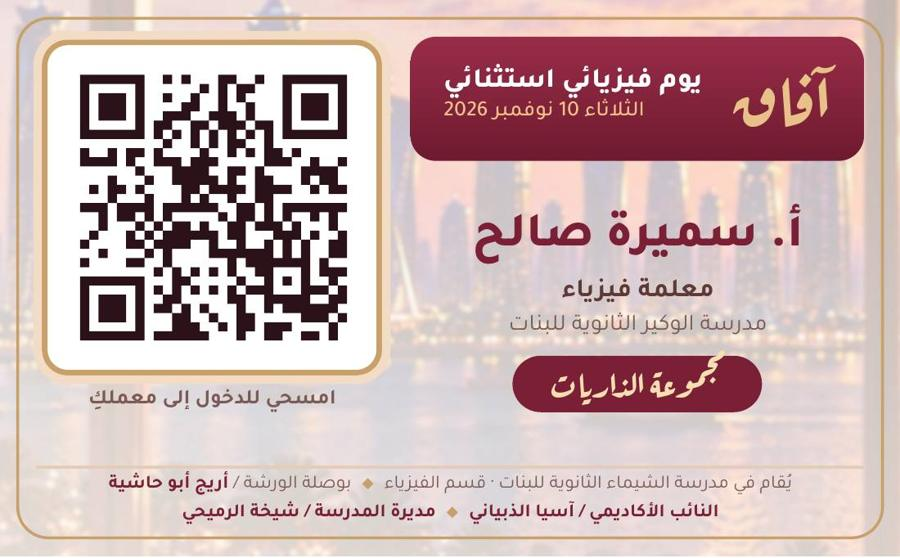
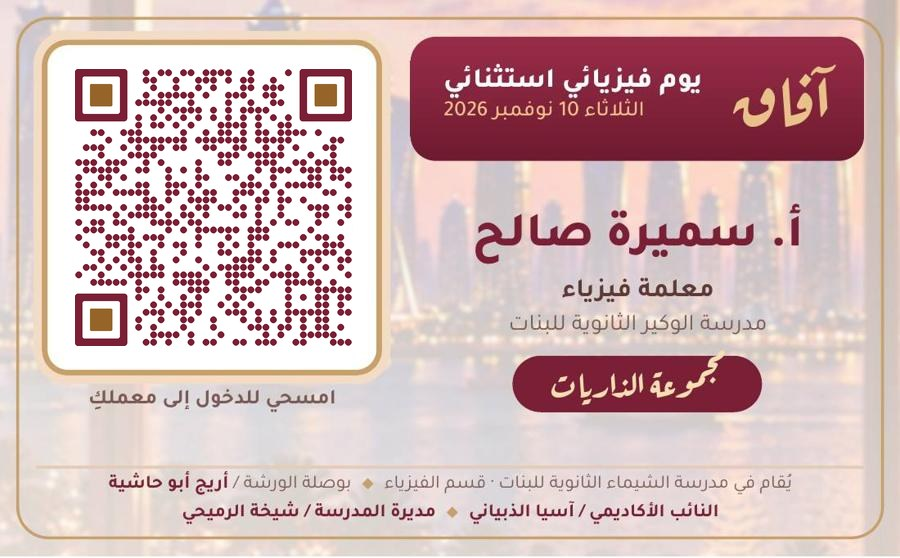
العرض: باركود عرض جديد للمتدربات يفتح آفاق كما في الورشة، وكتيّب المتدربة في عارض المواد
Claude-Session: https://claude.ai/code/session_014ev6NBmoXwgfjgCft7xxt5

Changed region(s): [[0.0622, 0.1219, 0.4044, 0.6398]]

diff --git a/index.html b/index.html
@@ -718,7 +718,7 @@ $('#stage').addEventListener('click',e=>{if(e.target.closest('a,button,input,lab
 
 /* new scenes */
 STEPS[IX('mastery')]=6;STEPS[IX('ohm')]=5;STEPS[IX('reinf')]=3;STEPS[IX('panels')]=4;STEPS[IX('ai')]=2;STEPS[IX('whole')]=4;STEPS[IX('mats')]=0;
-const MV={"m01": {"r": 0.707, "p": ["img/b-01.jpg", "img/b-02.jpg", "img/b-03.jpg", "img/b-04.jpg", "img/b-05.jpg", "img/b-06.jpg", "img/b-07.jpg", "img/b-08.jpg", "img/b-09.jpg", "img/b-10.jpg", "img/b-11.jpg", "img/b-12.jpg", "img/b-13.jpg", "img/b-14.jpg", "img/b-15.jpg", "img/b-16.jpg", "img/b-17.jpg", "img/b-18.jpg", "img/b-19.jpg", "img/b-20.jpg"]}, "m02": {"r": 0.707, "p": ["img/pg/m02-01.jpg", "img/pg/m02-02.jpg", "img/pg/m02-03.jpg", "img/pg/m02-04.jpg", "img/pg/m02-05.jpg", "img/pg/m02-06.jpg", "img/pg/m02-07.jpg", "img/pg/m02-08.jpg", "img/pg/m02-09.jpg", "img/pg/m02-10.jpg", "img/pg/m02-11.jpg", "img/pg/m02-12.jpg", "img/pg/m02-13.jpg", "img/pg/m02-14.jpg", "img/pg/m02-15.jpg", "img/pg/m02-16.jpg", "img/pg/m02-17.jpg", "img/pg/m02-18.jpg", "img/pg/m02-19.jpg", "img/pg/m02-20.jpg"]}, "m03": {"r": 0.707, "p": ["img/pg/m03-01.jpg", "img/pg/m03-02.jpg", "img/pg/m03-03.jpg", "img/pg/m03-04.jpg", "img/pg/m03-05.jpg", "img/pg/m03-06.jpg", "img/pg/m03-07.jpg", "img/pg/m03-08.jpg", "img/pg/m03-09.jpg", "img/pg/m03-10.jpg", "img/pg/m03-11.jpg", "img/pg/m03-12.jpg", "img/pg/m03-13.jpg", "img/pg/m03-14.jpg", "img/pg/m03-15.jpg", "img/pg/m03-16.jpg", "img/pg/m03-17.jpg", "img/pg/m03-18.jpg", "img/pg/m03-19.jpg", "img/pg/m03-20.jpg"]}, "m04": {"r": 1.613, "p": ["img/pg/m04-01.jpg", "img/pg/m04-02.jpg", "img/pg/m04-03.jpg", "img/pg/m04-04.jpg", "img/pg/m04-05.jpg", "img/pg/m04-06.jpg", "img/pg/m04-07.jpg", "img/pg/m04-08.jpg", "img/pg/m04-09.jpg", "img/pg/m04-10.jpg", "img/pg/m04-11.jpg", "img/pg/m04-12.jpg"]}, "m05": {"r": 0.707, "p": ["img/pg/m05-01.jpg", "img/pg/m05-02.jpg", "img/pg/m05-03.jpg", "img/pg/m05-04.jpg", "img/pg/m05-05.jpg"]}, "m06": {"r": 1.613, "p": ["img/pg/m06-01.jpg", "img/pg/m06-02.jpg", "img/pg/m06-03.jpg", "img/pg/m06-04.jpg", "img/pg/m06-05.jpg", "img/pg/m06-06.jpg", "img/pg/m06-07.jpg", "img/pg/m06-08.jpg", "img/pg/m06-09.jpg", "img/pg/m06-10.jpg", "img/pg/m06-11.jpg", "img/pg/m06-12.jpg", "img/pg/m06-13.jpg", "img/pg/m06-14.jpg"]}, "m09": {"r": 0.707, "p": ["img/pg/m09-01.jpg", "img/pg/m09-02.jpg", "img/pg/m09-03.jpg", "img/pg/m09-04.jpg", "img/pg/m09-05.jpg", "img/pg/m09-06.jpg"]}, "m11": {"r": 0.707, "p": ["img/pg/m11-01.jpg", "img/pg/m11-02.jpg", "img/pg/m11-03.jpg", "img/pg/m11-04.jpg"]}, "m12": {"r": 1.414, "p": ["img/pg/m12-01.jpg", "img/pg/m12-02.jpg", "img/pg/m12-03.jpg", "img/pg/m12-04.jpg", "img/pg/m12-05.jpg", "img/pg/m12-06.jpg", "img/pg/m12-07.jpg", "img/pg/m12-08.jpg"]}, "m14": {"r": 1.414, "p": ["img/pg/m14-01.jpg", "img/pg/m14-02.jpg", "img/pg/m14-03.jpg", "img/pg/m14-04.jpg", "img/pg/m14-05.jpg", "img/pg/m14-06.jpg", "img/pg/m14-07.jpg", "img/pg/m14-08.jpg", "img/pg/m14-09.jpg", "img/pg/m14-10.jpg", "img/pg/m14-11.jpg"]}, "m16": {"r": 1.414, "p": ["img/pg/m16-01.jpg", "img/pg/m16-02.jpg", "img/pg/m16-03.jpg"]}, "m20": {"r": 0.707, "p": ["img/pg/m20-01.jpg", "img/pg/m20-02.jpg", "img/pg/m20-03.jpg", "img/pg/m20-04.jpg", "img/pg/m20-05.jpg", "img/pg/m20-06.jpg", "img/pg/m20-07.jpg", "img/pg/m20-08.jpg", "img/pg/m20-09.jpg", "img/pg/m20-10.jpg"]}, "m21": {"r": 0.707, "p": ["img/pg/m21-01.jpg", "img/pg/m21-02.jpg", "img/pg/m21-03.jpg", "img/pg/m21-04.jpg", "img/pg/m21-05.jpg", "img/pg/m21-06.jpg"]}, "m13": {"r": 0.707, "p": ["img/pg/m13-01.jpg", "img/pg/m13-02.jpg", "img/pg/m13-03.jpg", "img/pg/m13-04.jpg", "img/pg/m13-05.jpg", "img/pg/m13-06.jpg", "img/pg/m13-07.jpg", "img/pg/m13-08.jpg", "img/pg/m13-09.jpg"], "st": [["img/pg/sp-1.jpg", "قبل", "السؤال على الشاشة… وكل طالبة تمسك بطاقتها الخاصة (A · B · C · D)"], ["img/pg/sp-2.jpg", "أثناء", "ترفع الطالبات البطاقات بالحرف المختار… وكاميرا الجهاز تقرأ الإجابات لحظياً"], ["img/pg/sp-3.jpg", "بعد", "تظهر الإجابة الصحيحة وتوزيع إجابات الصف… ونناقش سبب كل خيار"]]}, "m07": {"st": [["img/m07.jpg", "قبل", "بدأت أ. أوم ببطاقتها الحمراء: «مقاومة عالية» للتطبيق… R = 1000Ω"], ["img/m08.jpg", "بعد", "وانتهت ببطاقة الإيجابية: تحوّلت المقاومة إلى تيار إيجابي… R = 10Ω"]]}, "m08": {"st": [["img/m07.jpg", "قبل", "بدأت أ. أوم ببطاقتها الحمراء: «مقاومة عالية» للتطبيق… R = 1000Ω"], ["img/m08.jpg", "بعد", "وانتهت ببطاقة الإيجابية: تحوّلت المقاومة إلى تيار إيجابي… R = 10Ω"]]}};
+const MV={"m01": {"r": 0.707, "p": ["img/pg/m01-01.jpg", "img/pg/m01-02.jpg", "img/pg/m01-03.jpg", "img/pg/m01-04.jpg", "img/pg/m01-05.jpg", "img/pg/m01-06.jpg", "img/pg/m01-07.jpg", "img/pg/m01-08.jpg", "img/pg/m01-09.jpg", "img/pg/m01-10.jpg", "img/pg/m01-11.jpg", "img/pg/m01-12.jpg", "img/pg/m01-13.jpg", "img/pg/m01-14.jpg", "img/pg/m01-15.jpg", "img/pg/m01-16.jpg", "img/pg/m01-17.jpg", "img/pg/m01-18.jpg", "img/pg/m01-19.jpg", "img/pg/m01-20.jpg"]}, "m02": {"r": 0.707, "p": ["img/pg/m02-01.jpg", "img/pg/m02-02.jpg", "img/pg/m02-03.jpg", "img/pg/m02-04.jpg", "img/pg/m02-05.jpg", "img/pg/m02-06.jpg", "img/pg/m02-07.jpg", "img/pg/m02-08.jpg", "img/pg/m02-09.jpg", "img/pg/m02-10.jpg", "img/pg/m02-11.jpg", "img/pg/m02-12.jpg", "img/pg/m02-13.jpg", "img/pg/m02-14.jpg", "img/pg/m02-15.jpg", "img/pg/m02-16.jpg", "img/pg/m02-17.jpg", "img/pg/m02-18.jpg", "img/pg/m02-19.jpg", "img/pg/m02-20.jpg"]}, "m03": {"r": 0.707, "p": ["img/pg/m03-01.jpg", "img/pg/m03-02.jpg", "img/pg/m03-03.jpg", "img/pg/m03-04.jpg", "img/pg/m03-05.jpg", "img/pg/m03-06.jpg", "img/pg/m03-07.jpg", "img/pg/m03-08.jpg", "img/pg/m03-09.jpg", "img/pg/m03-10.jpg", "img/pg/m03-11.jpg", "img/pg/m03-12.jpg", "img/pg/m03-13.jpg", "img/pg/m03-14.jpg", "img/pg/m03-15.jpg", "img/pg/m03-16.jpg", "img/pg/m03-17.jpg", "img/pg/m03-18.jpg", "img/pg/m03-19.jpg", "img/pg/m03-20.jpg"]}, "m04": {"r": 1.613, "p": ["img/pg/m04-01.jpg", "img/pg/m04-02.jpg", "img/pg/m04-03.jpg", "img/pg/m04-04.jpg", "img/pg/m04-05.jpg", "img/pg/m04-06.jpg", "img/pg/m04-07.jpg", "img/pg/m04-08.jpg", "img/pg/m04-09.jpg", "img/pg/m04-10.jpg", "img/pg/m04-11.jpg", "img/pg/m04-12.jpg"]}, "m05": {"r": 0.707, "p": ["img/pg/m05-01.jpg", "img/pg/m05-02.jpg", "img/pg/m05-03.jpg", "img/pg/m05-04.jpg", "img/pg/m05-05.jpg"]}, "m06": {"r": 1.613, "p": ["img/pg/m06-01.jpg", "img/pg/m06-02.jpg", "img/pg/m06-03.jpg", "img/pg/m06-04.jpg", "img/pg/m06-05.jpg", "img/pg/m06-06.jpg", "img/pg/m06-07.jpg", "img/pg/m06-08.jpg", "img/pg/m06-09.jpg", "img/pg/m06-10.jpg", "img/pg/m06-11.jpg", "img/pg/m06-12.jpg", "img/pg/m06-13.jpg", "img/pg/m06-14.jpg"]}, "m09": {"r": 0.707, "p": ["img/pg/m09-01.jpg", "img/pg/m09-02.jpg", "img/pg/m09-03.jpg", "img/pg/m09-04.jpg", "img/pg/m09-05.jpg", "img/pg/m09-06.jpg"]}, "m11": {"r": 0.707, "p": ["img/pg/m11-01.jpg", "img/pg/m11-02.jpg", "img/pg/m11-03.jpg", "img/pg/m11-04.jpg"]}, "m12": {"r": 1.414, "p": ["img/pg/m12-01.jpg", "img/pg/m12-02.jpg", "img/pg/m12-03.jpg", "img/pg/m12-04.jpg", "img/pg/m12-05.jpg", "img/pg/m12-06.jpg", "img/pg/m12-07.jpg", "img/pg/m12-08.jpg"]}, "m14": {"r": 1.414, "p": ["img/pg/m14-01.jpg", "img/pg/m14-02.jpg", "img/pg/m14-03.jpg", "img/pg/m14-04.jpg", "img/pg/m14-05.jpg", "img/pg/m14-06.jpg", "img/pg/m14-07.jpg", "img/pg/m14-08.jpg", "img/pg/m14-09.jpg", "img/pg/m14-10.jpg", "img/pg/m14-11.jpg"]}, "m16": {"r": 1.414, "p": ["img/pg/m16-01.jpg", "img/pg/m16-02.jpg", "img/pg/m16-03.jpg"]}, "m20": {"r": 0.707, "p": ["img/pg/m20-01.jpg", "img/pg/m20-02.jpg", "img/pg/m20-03.jpg", "img/pg/m20-04.jpg", "img/pg/m20-05.jpg", "img/pg/m20-06.jpg", "img/pg/m20-07.jpg", "img/pg/m20-08.jpg", "img/pg/m20-09.jpg", "img/pg/m20-10.jpg"]}, "m21": {"r": 0.707, "p": ["img/pg/m21-01.jpg", "img/pg/m21-02.jpg", "img/pg/m21-03.jpg", "img/pg/m21-04.jpg", "img/pg/m21-05.jpg", "img/pg/m21-06.jpg"]}, "m13": {"r": 0.707, "p": ["img/pg/m13-01.jpg", "img/pg/m13-02.jpg", "img/pg/m13-03.jpg", "img/pg/m13-04.jpg", "img/pg/m13-05.jpg", "img/pg/m13-06.jpg", "img/pg/m13-07.jpg", "img/pg/m13-08.jpg", "img/pg/m13-09.jpg"], "st": [["img/pg/sp-1.jpg", "قبل", "السؤال على الشاشة… وكل طالبة تمسك بطاقتها الخاصة (A · B · C · D)"], ["img/pg/sp-2.jpg", "أثناء", "ترفع الطالبات البطاقات بالحرف المختار… وكاميرا الجهاز تقرأ الإجابات لحظياً"], ["img/pg/sp-3.jpg", "بعد", "تظهر الإجابة الصحيحة وتوزيع إجابات الصف… ونناقش سبب كل خيار"]]}, "m07": {"st": [["img/m07.jpg", "قبل", "بدأت أ. أوم ببطاقتها الحمراء: «مقاومة عالية» للتطبيق… R = 1000Ω"], ["img/m08.jpg", "بعد", "وانتهت ببطاقة الإيجابية: تحوّلت المقاومة إلى تيار إيجابي… R = 10Ω"]]}, "m08": {"st": [["img/m07.jpg", "قبل", "بدأت أ. أوم ببطاقتها الحمراء: «مقاومة عالية» للتطبيق… R = 1000Ω"], ["img/m08.jpg", "بعد", "وانتهت ببطاقة الإيجابية: تحوّلت المقاومة إلى تيار إيجابي… R = 10Ω"]]}};
 const MATS=[['m01','كتيّب متدربة… باسمها'],['m02','كتيّب ضيوفنا الكرام'],['m03','كتيّب الموجّهة التربوية'],['m04','بطاقات الورشة التي لبستها المتدربات'],['m05','بطاقات المجموعات الخمس'],['m06','بطاقات التوجيه والمضيفات والإدارة'],['m07','بطاقة أ. أوم الحمراء'],['m08','بطاقة الإيجابية'],['m09','باركود المجموعات · آفاق'],['m10','باركود المجموعات · Sara Spectrum'],['m11','الرسالة السرية · أوراق المجموعات'],['m12','الرسالة السرية · أوراق الضيوف'],['m13','بطاقات الطيف'],['m14','تحضير حصة أ. سارة'],['m15','ورقة عمل المقاومة الضوئية والحرارية'],['m16','كشف الحضور'],['m17','بنر الاستقبال'],['m18','لوحة عربة قهوة نيوتن'],['m19','غلاف كوب قهوة نيوتن'],['m20','شهادات شكر المتدربات'],['m21','شهادات معلمات القسم'],['m22','باركود منصة زاد']];
 $('#mg').innerHTML=MATS.map(m=>`<button type="button" data-mv="${m[0]}" data-lb="img/${m[0]}.jpg" data-cap="${m[1]}"><img src="img/${m[0]}.jpg" alt="${m[1]}" loading="lazy"><span>${m[1]}</span>${MV[m[0]]?`<em class="tg">${MV[m[0]].st?'▶ قبل · أثناء · بعد':'📖 تصفّحيه ككتاب'}</em>`:''}</button>`).join('');
 const lb=$('#lb');document.addEventListener('click',e=>{const t=e.target.closest('[data-lb],.pn4 img,.ohmcards img');if(!t)return;e.stopPropagation();{const mk=t.dataset.mv;if(mk&&MV[mk]){openMV(mk,t.dataset.cap);return}}const src=t.dataset.lb||t.getAttribute('src'),cap=t.dataset.cap||t.getAttribute('alt')||'';$('#lbI').src=src;$('#lbI').alt=cap;$('#lbP').textContent=cap;lb.hidden=false},true);
